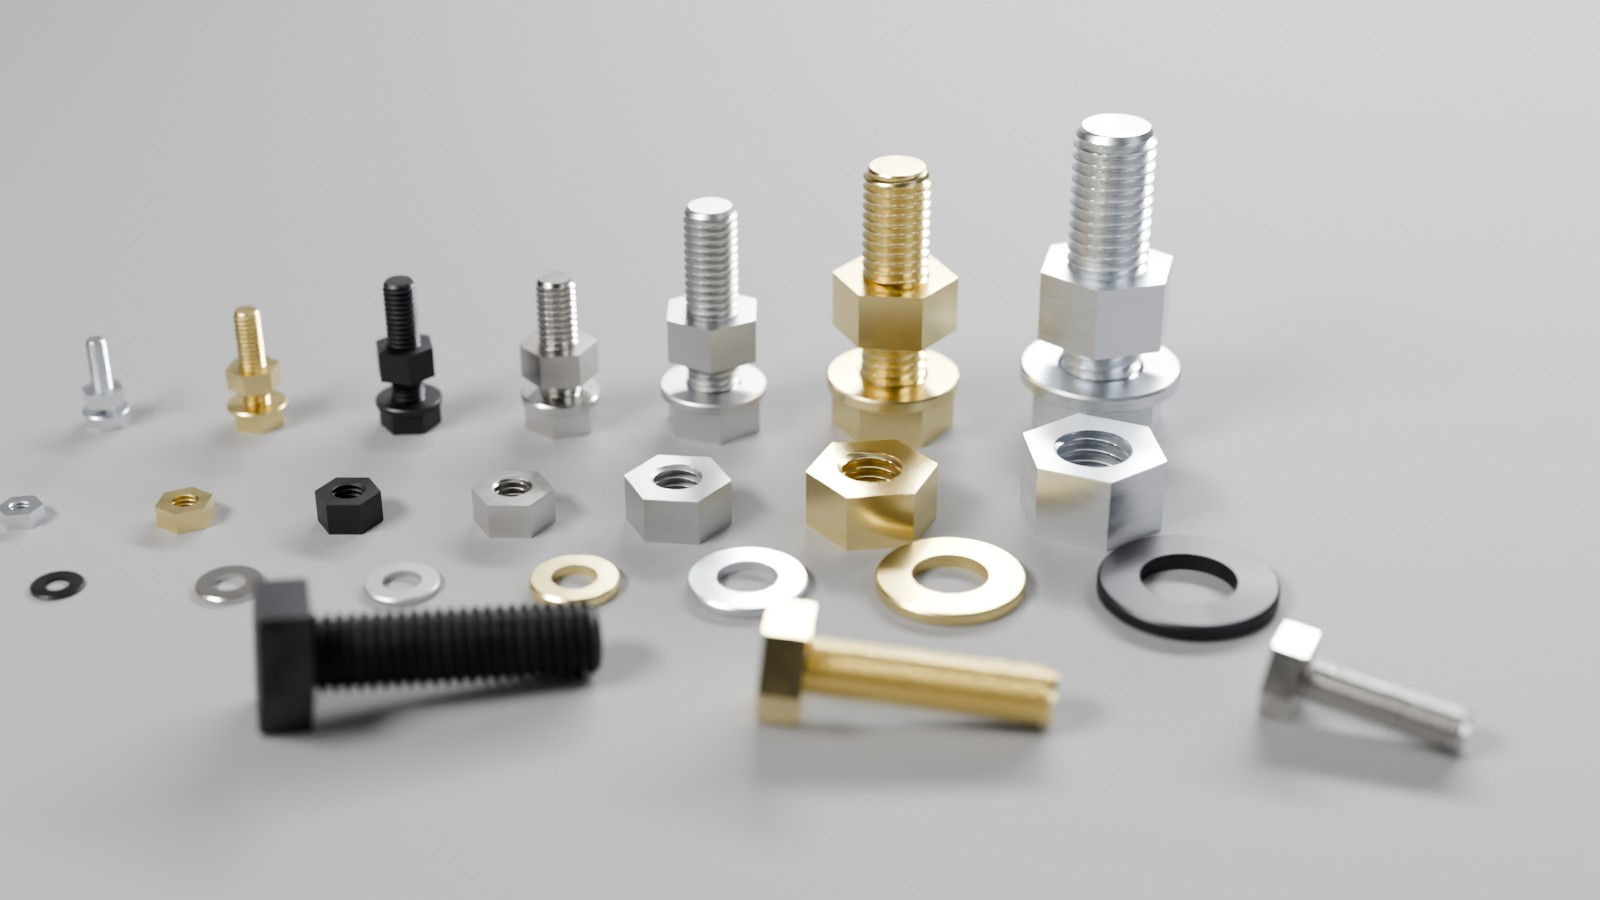
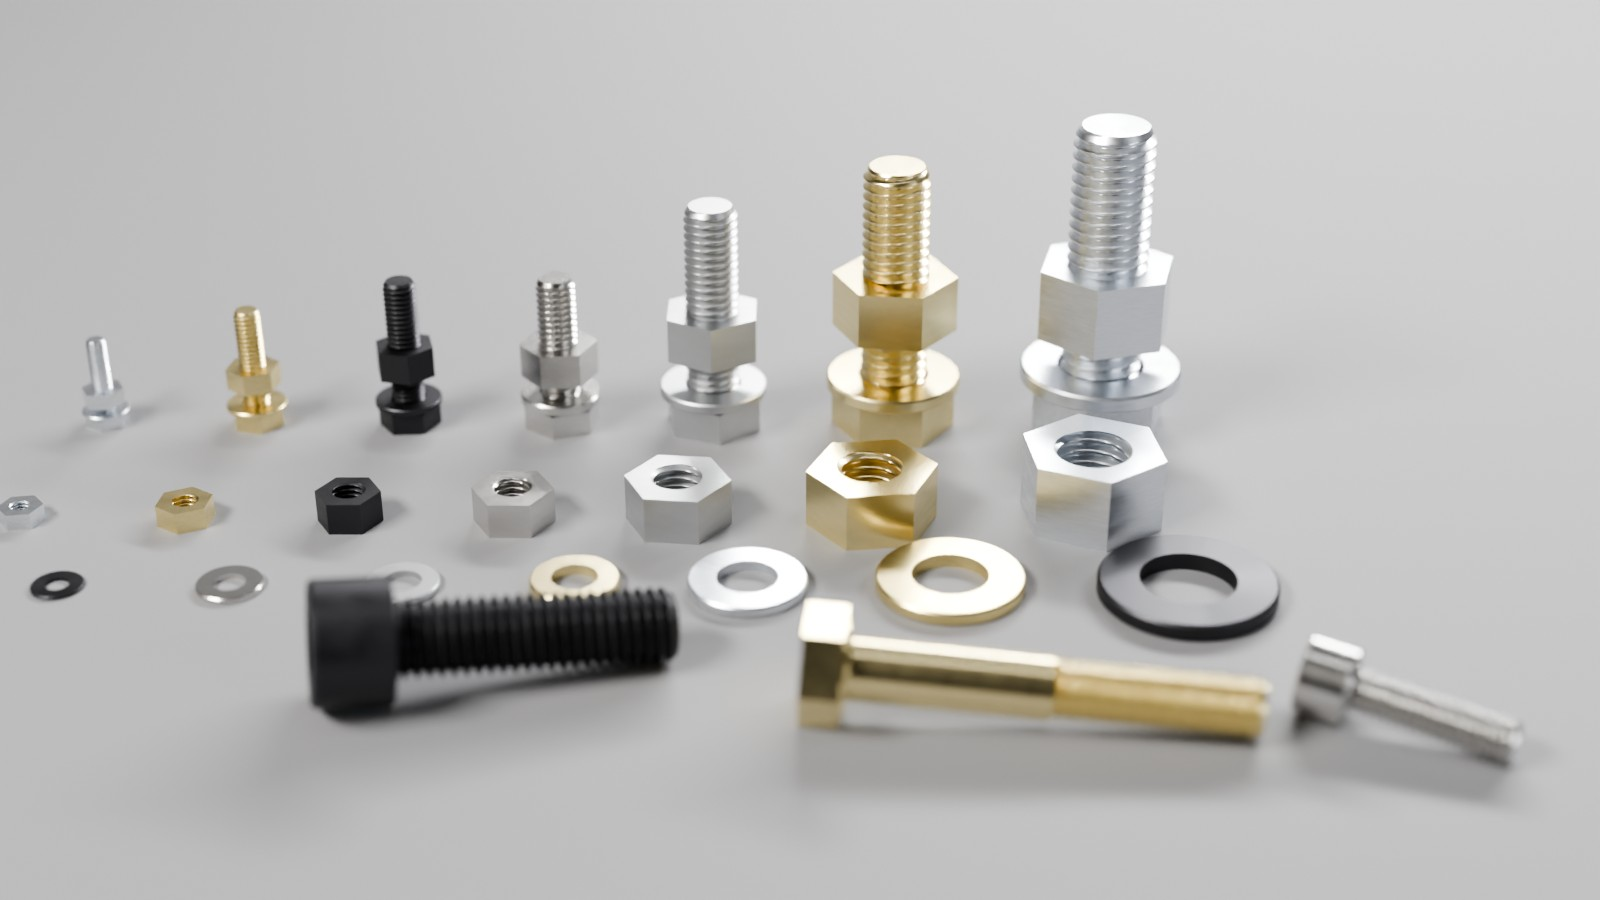
Release 0.6.0b1; README images with the new cap screws and bolt
Claude-Session: https://claude.ai/code/session_01UFTdhuqpguuV8dpaXZJ9qg

diff --git a/scripts/readme_images.py b/scripts/readme_images.py
@@ -92,8 +92,10 @@ def fasteners_scene(assets, path):
             FINISHES[(i + 2) % 6],
         )
         x += max(t["washer"][1], 12) * MM + 0.011
-    for j, (s, fin) in enumerate((("M10", "black_oxide"), ("M8", "brass"), ("M6", "stainless_a2"))):
-        L = [p for p in os.listdir(assets) if p.startswith(f"ISO4017_{s}x")][0]
+    # lying in front: a socket head cap screw (ISO 4762) and a bolt with its plain shank (ISO 4014)
+    loose_screws = (("M10", "black_oxide", "ISO4762"), ("M8", "brass", "ISO4014"), ("M6", "stainless_a2", "ISO4762"))
+    for j, (s, fin, std) in enumerate(loose_screws):
+        L = [p for p in os.listdir(assets) if p.startswith(f"{std}_{s}x")][0]
         q = qmul(quat_axis_angle((0, 0, 1), 0.25 - 0.35 * j), quat_axis_angle((0, 1, 0), np.pi / 2))
         add_ref(loose, f"lscrew_{s}", assets / L, (-0.06 + 0.06 * j, -0.065, 0.012), q, fin)
     save(loose)
@@ -199,11 +201,11 @@ def showcase_scene(assets, path):
 
 
 def variation_scene(tmp, path, seed=4):
-    """Ten drawn instances of an M10 screw, nut and washer, eight AA cells and three 9V blocks."""
+    """Ten drawn instances of an M10 cap screw, nut and washer, eight AA cells and three 9V blocks."""
     from quincaillerie import resolve
 
     a = generate(
-        resolve("screw", "M10", 35, ["nut", "washer"]),
+        resolve("cap_screw", "M10", 35, ["nut", "washer"]),
         str(tmp),
         "var_m10",
         count=10,
@@ -218,7 +220,7 @@ def variation_scene(tmp, path, seed=4):
     for i in range(10):
         y = -0.09 + 0.02 * i
         q = qmul(quat_axis_angle((0, 0, 1), 0.08 * (i - 5)), quat_axis_angle((0, 1, 0), np.pi / 2))
-        lay(st, f"s{i}", A / f"ISO4017_M10x35_{i:03d}.usdc", (-0.075, y, 0.0085), q)
+        lay(st, f"s{i}", A / f"ISO4762_M10x35_{i:03d}.usdc", (-0.075, y, 0.0085), q)
         lay(st, f"n{i}", A / f"ISO4032_M10_{i:03d}.usdc", (-0.025, y, 0), quat_axis_angle((0, 0, 1), 0.4 * i))
         lay(st, f"w{i}", A / f"ISO7089_M10_{i:03d}.usda", (0.003, y, 0), (1, 0, 0, 0))
     for i in range(8):

diff --git a/README.md b/README.md
@@ -47,7 +47,7 @@ CPU. Quincaillerie is part of [**Primvaria**](https://primvaria.com), with
 [Filaire](https://github.com/drscaon/filaire) (cables), and follows the same
 approach: distributions instead of one shape, measured outputs, honest limits.
 
-![Screws, washers and nuts M3 to M12 in six finishes, rendered in Blender](https://raw.githubusercontent.com/drscaon/quincaillerie/main/docs/images/fasteners.jpg)
+![Screws, washers and nuts M3 to M12 in six finishes, with socket head cap screws and a bolt with its plain shank in front, rendered in Blender](https://raw.githubusercontent.com/drscaon/quincaillerie/main/docs/images/fasteners.jpg)
 
 *ISO 4017 screws, ISO 7089 washers and ISO 4032 nuts, M3 to M12, in the six
 finishes of the material library. The nuts sit on the thread at the height
@@ -61,7 +61,7 @@ rendered with Cycles.*
 
 ## Every instance is different
 
-![Ten instances of an M10 screw, nut and washer, eight AA cells and three 9V blocks, each drawn with its own variation](https://raw.githubusercontent.com/drscaon/quincaillerie/main/docs/images/variation.jpg)
+![Ten instances of an M10 socket head cap screw, nut and washer, eight AA cells and three 9V blocks, each drawn with its own variation](https://raw.githubusercontent.com/drscaon/quincaillerie/main/docs/images/variation.jpg)
 
 *`quincaillerie generate screw M10 --with nut,washer --count 10` and the same
 for AA and 9 V cells: each part is a distinct file. Rust, grime, oil and

diff --git a/CHANGELOG.md b/CHANGELOG.md
@@ -6,8 +6,11 @@ and the project uses [Semantic Versioning](https://semver.org/).
 
 ## [Unreleased]
 
+## [0.6.0b1] - 2026-11-27 (beta)
+
 ### Documentation
 
+- The README images show the new screws: socket head cap screws (ISO 4762) and a bolt with its plain shank (ISO 4014) among the fasteners, cap screws in the ten varied instances.
 - The README links to Primvaria's note on how standards are used; the pull request checklist gains a line for it.
 - The note on the tip chamfer's estimate (`docs/sources.md`) is reworded in our own words.
 
